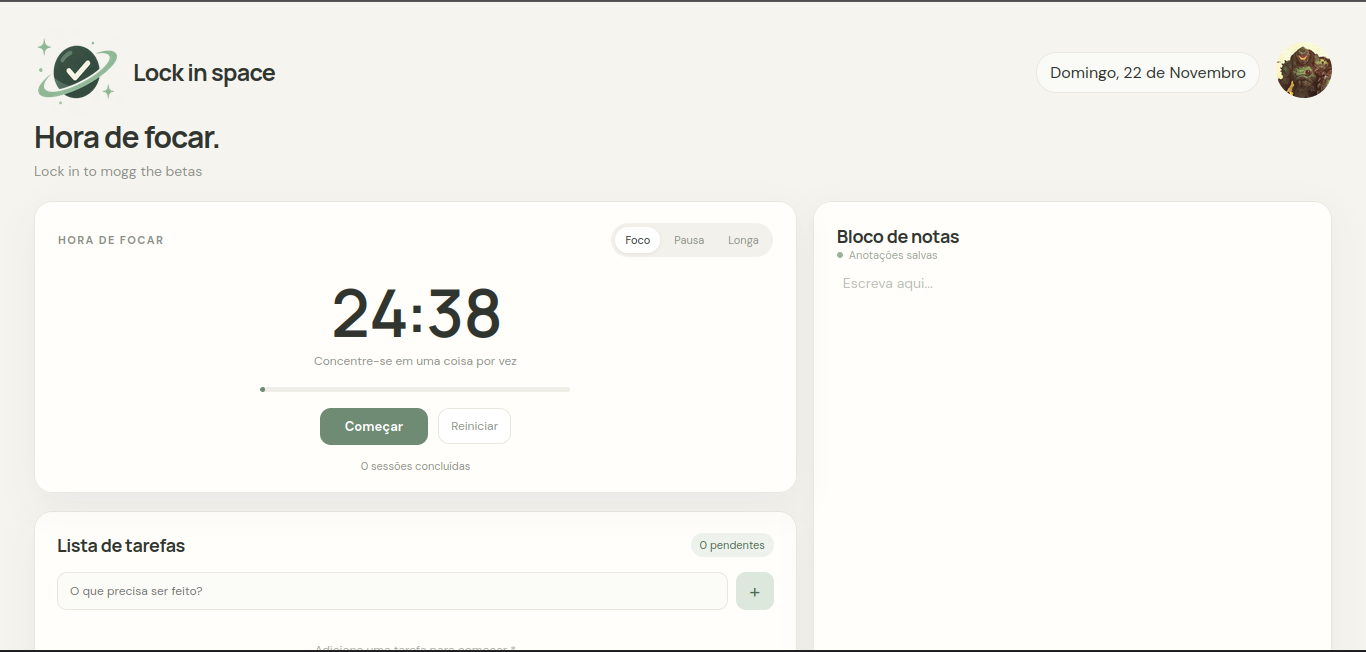
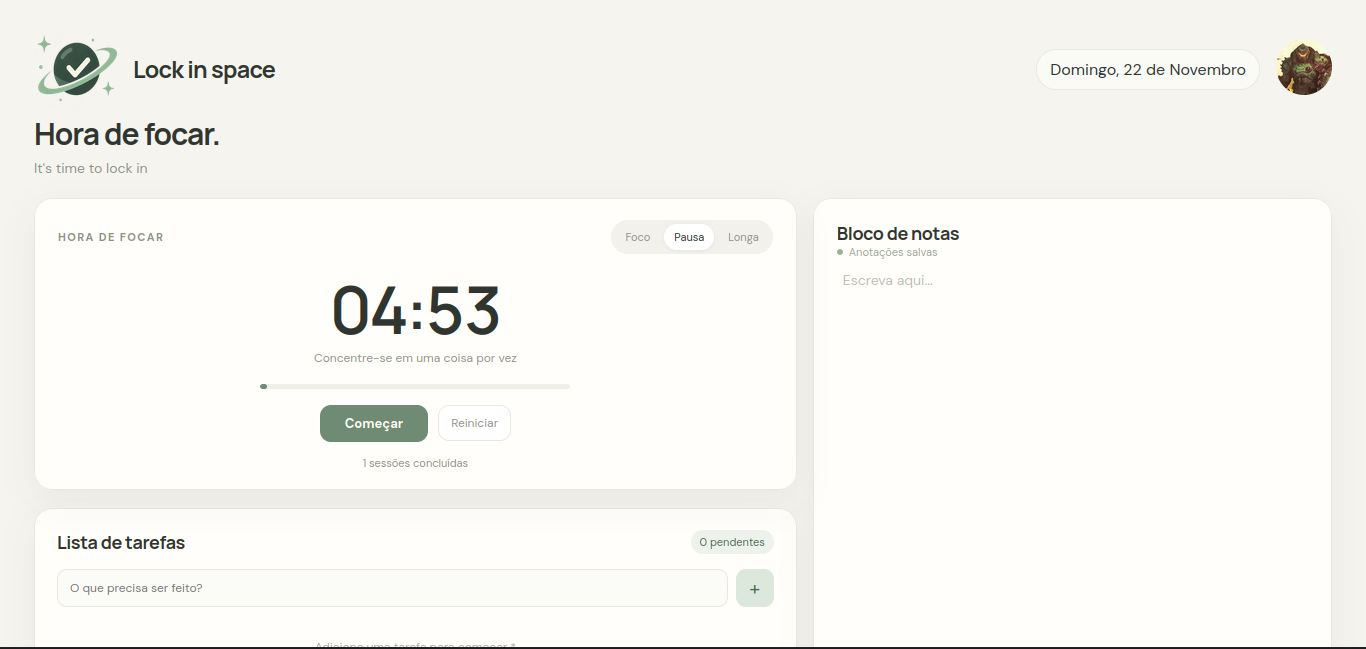
att: atualização das fotos

diff --git a/webapp/frontend/pages/main.html b/webapp/frontend/pages/main.html
@@ -25,7 +25,7 @@
         <section class="greeting">
             <H1 class="greeting-main-text">Hora de focar.</H1>
             <p class="greeting-botton-text">
-                Lock in to mogg the betas
+                It's time to lock in
             </p>
         </section>
         <main class="dashboard" hidden>

diff --git a/webapp/frontend/src/pomoScript.js b/webapp/frontend/src/pomoScript.js
@@ -8,8 +8,8 @@ const progressBar = document.getElementById("progress");
 let currentMode = "focus";
 let focusSession = 0;
 
-let timeLeft = 1500;
-let totalTime = 1500;
+let timeLeft = 5;
+let totalTime = 5;
 let interval = null;
 
 
